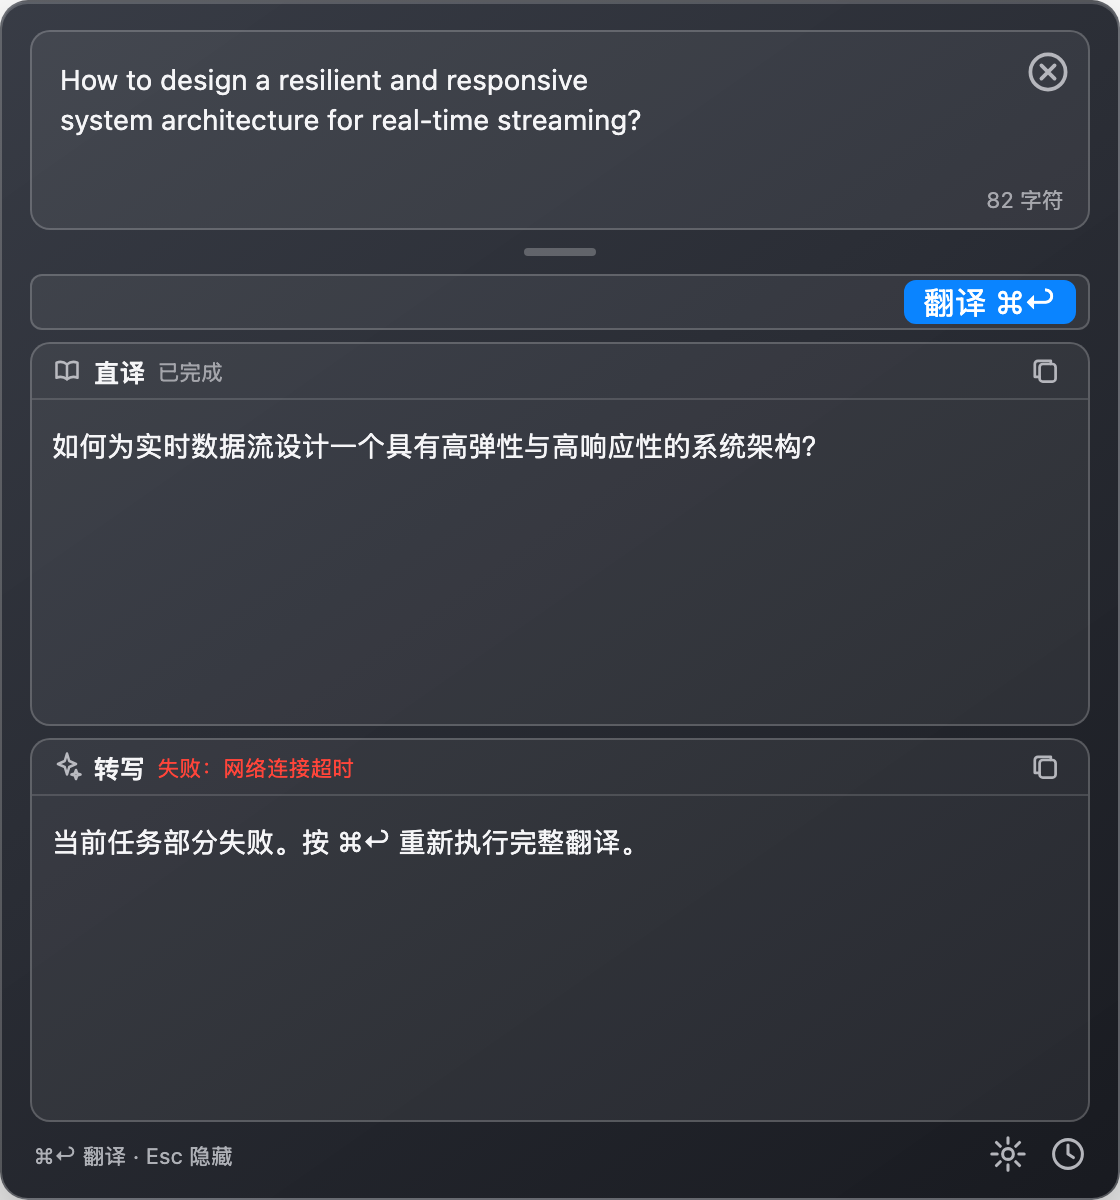
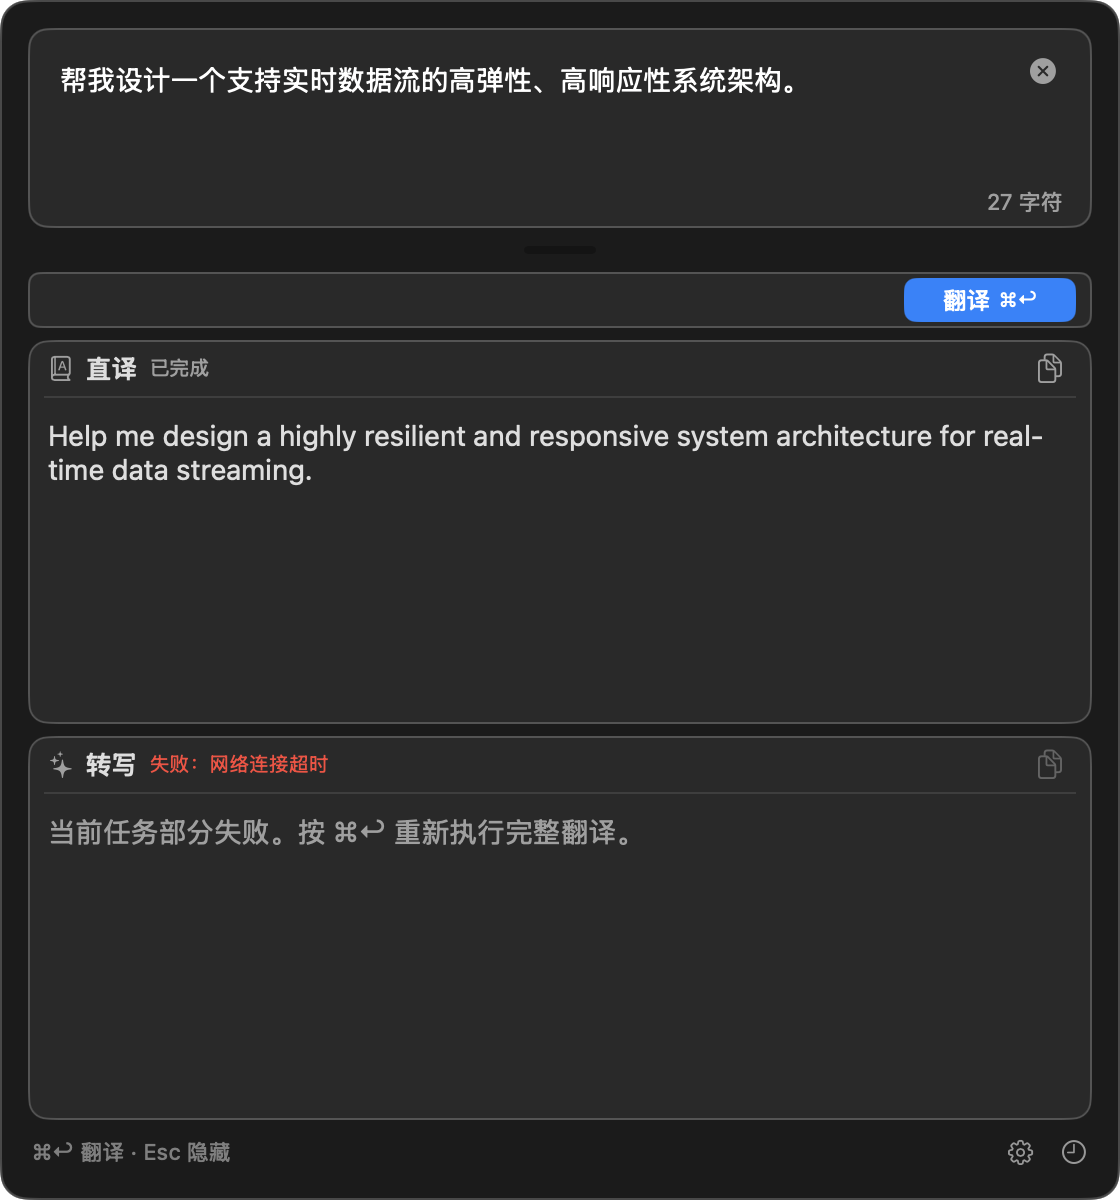
docs(readme): 明确中译英定位并更新示例图

diff --git a/Sources/LightTrans/UI/UIAcceptanceState.swift b/Sources/LightTrans/UI/UIAcceptanceState.swift
@@ -91,12 +91,9 @@ struct UIAcceptanceHistorySnapshot {
 
 @MainActor
 enum UIAcceptancePanelScenario {
-    static let baselineInput = """
-    How to design a resilient and responsive
-    system architecture for real-time streaming?
-    """
-    static let baselineLiteral = "如何为实时数据流设计一个具有高弹性与高响应性的系统架构？"
-    static let baselineRewrite = "Act as a Principal Cloud Architect and design a resilient, responsive architecture for real-time streaming."
+    static let baselineInput = "帮我设计一个支持实时数据流的高弹性、高响应性系统架构。"
+    static let baselineLiteral = "Help me design a highly resilient and responsive system architecture for real-time data streaming."
+    static let baselineRewrite = "Act as a Principal Cloud Architect. Design a resilient and responsive architecture for real-time data streaming, covering scalability, fault tolerance, observability, and disaster recovery."
 
     static func makeViewModel(for state: UIAcceptanceState) -> PanelViewModel {
         let vm = PanelViewModel()
@@ -152,7 +149,7 @@ enum UIAcceptancePanelScenario {
         switch state {
         case .panelIdle, .panelStreaming, .panelDone, .panelPartialFail, .panelStopped,
              .panelHeight70, .panelHeight100, .panelHeight240:
-            return 82
+            return baselineInput.count
         default:
             return nil
         }

diff --git a/README.md b/README.md
@@ -1,6 +1,6 @@
 # 轻译（LightTrans）
 
-轻译是一个 macOS 菜单栏翻译工具。应用通过用户配置的 OpenAI Chat Completions 兼容接口，同时生成直译与英文提示词转写结果，并支持全局快捷键、macOS 服务、历史记录和多设备 iCloud 云盘同步。
+轻译是一个面向中文提示词的 macOS 菜单栏工具。应用把中文想法同时转换为两种英文结果：一份保留原意的直译，以及一份结构更清晰、可直接交给大模型使用的英文提示词。主要用途是减少中文需求交给大模型时的表达偏差，不以通用多语言翻译为主要目标。
 
 当前版本为 `0.1.1`。项目提供源码构建方式和适用于 Apple Silicon Mac 的未签名预览版；预览版采用 ad-hoc 签名，未经过 Developer ID 签名和 Apple 公证。
 
@@ -9,13 +9,41 @@
 ## 功能
 
 - 菜单栏常驻，不占用 Dock；默认使用 `Option+T` 呼出翻译面板。
-- 同时生成直译与英文提示词转写，两路结果独立流式显示。
+- 输入中文后，同时生成英文直译和面向大模型的英文提示词转写，两路结果独立流式显示。
 - 支持停止生成、结果复制、输入区高度调节和快捷入口。
 - 可配置接口地址、API Key、模型名、提示词模板和最大输出 Token。
 - API Key 存入 macOS 钥匙串；其他设置存入 UserDefaults。
 - 通过「轻译：打开面板」macOS 服务接收其他应用中的选中文字。
 - 历史记录采用 JSON Lines 格式，可通过 iCloud 云盘在多台 Mac 间合并显示。
 - 支持开机启动和全局快捷键重新录制。
+
+## 使用示例
+
+以下结果仅用于说明两种输出的区别，实际内容取决于模型和提示词模板。
+
+输入中文需求：
+
+```text
+帮我写一个 Python 函数，读取 CSV 文件并按日期汇总销售额，缺失值按 0 处理。
+```
+
+英文直译保留原始含义：
+
+```text
+Write a Python function that reads a CSV file, summarizes sales amounts by date, and treats missing values as 0.
+```
+
+英文提示词转写会整理任务结构，使大模型更容易识别约束：
+
+```text
+Write a Python function that:
+1. Reads sales data from a CSV file.
+2. Groups the records by date and calculates the total sales amount for each date.
+3. Treats missing sales values as 0.
+Return the complete implementation with a short usage example.
+```
+
+两种结果都可以单独复制。直译适合核对原意，提示词转写适合直接发送给大模型。
 
 ## 运行要求
 
@@ -97,13 +125,13 @@ bash Scripts/build-app.sh
 2. 右键菜单栏图标，打开「设置」。
 3. 填写接口地址、模型名和 API Key；按需调整两套提示词模板。
 4. 按 `Option+T` 或左键点击菜单栏图标打开面板。
-5. 输入文字后按 `Cmd+Return`，或点击「翻译」。
+5. 输入中文需求后按 `Cmd+Return`，或点击「翻译」。
 
 翻译过程中可以停止请求。隐藏面板不会清空当前输入和结果。
 
-## 翻译选中文字
+## 转换选中的中文
 
-安装应用后，支持 macOS 服务的来源应用可以把选中文字发送给轻译：
+安装应用后，支持 macOS 服务的来源应用可以把选中的中文发送给轻译：
 
 1. 在来源应用中选中文字。
 2. 从应用菜单的「服务」子菜单选择「轻译：打开面板」。
@@ -157,7 +185,7 @@ bash Scripts/capture-ui-acceptance.sh --state history-long-device-model
 | [需求文档](docs/01-requirements.md) | 功能范围、非功能要求与验收边界 |
 | [系统设计](docs/02-system-design.md) | 架构、技术决策和硬约束 |
 | [详细设计](docs/03-detailed-design.md) | 模块、接口、存储、网络和打包设计 |
-| [实施计划](docs/04-implementation-plan.md) | T1 至 T18 的实施与验收记录 |
+| [实施计划](docs/04-implementation-plan.md) | T1 至 T20 的实施与验收记录 |
 | [UI 视觉基准](docs/changes/ui-visual-consistency/v5-baseline.md) | 当前窗口尺寸、颜色和状态基准 |
 | [选中文字功能设计](docs/07-selection-translation-feature-design.md) | macOS 服务的能力边界与兼容性 |
 | [T17 验收记录](docs/08-selection-translation-acceptance.md) | 选中文字功能的测试结果 |

diff --git a/docs/changes/ui-visual-consistency/v5-baseline.md b/docs/changes/ui-visual-consistency/v5-baseline.md
@@ -7,6 +7,8 @@
 > 目标：把 `docs/assets/` 的视觉方向转换为无冲突、可实现、可截图比较的唯一基准
 
 > 公开发布清理：历史窗口基准图于 2026-08-27 使用相同状态重新采集，仅将个人设备名替换为中性样例，不改变尺寸与视觉规则。
+>
+> 示例方向订正：面板基准图于 2026-08-27 重新采集为「中文输入 → 英文直译 + 英文转写」，不改变尺寸与视觉规则。
 
 ## 1. 基准原则
 
